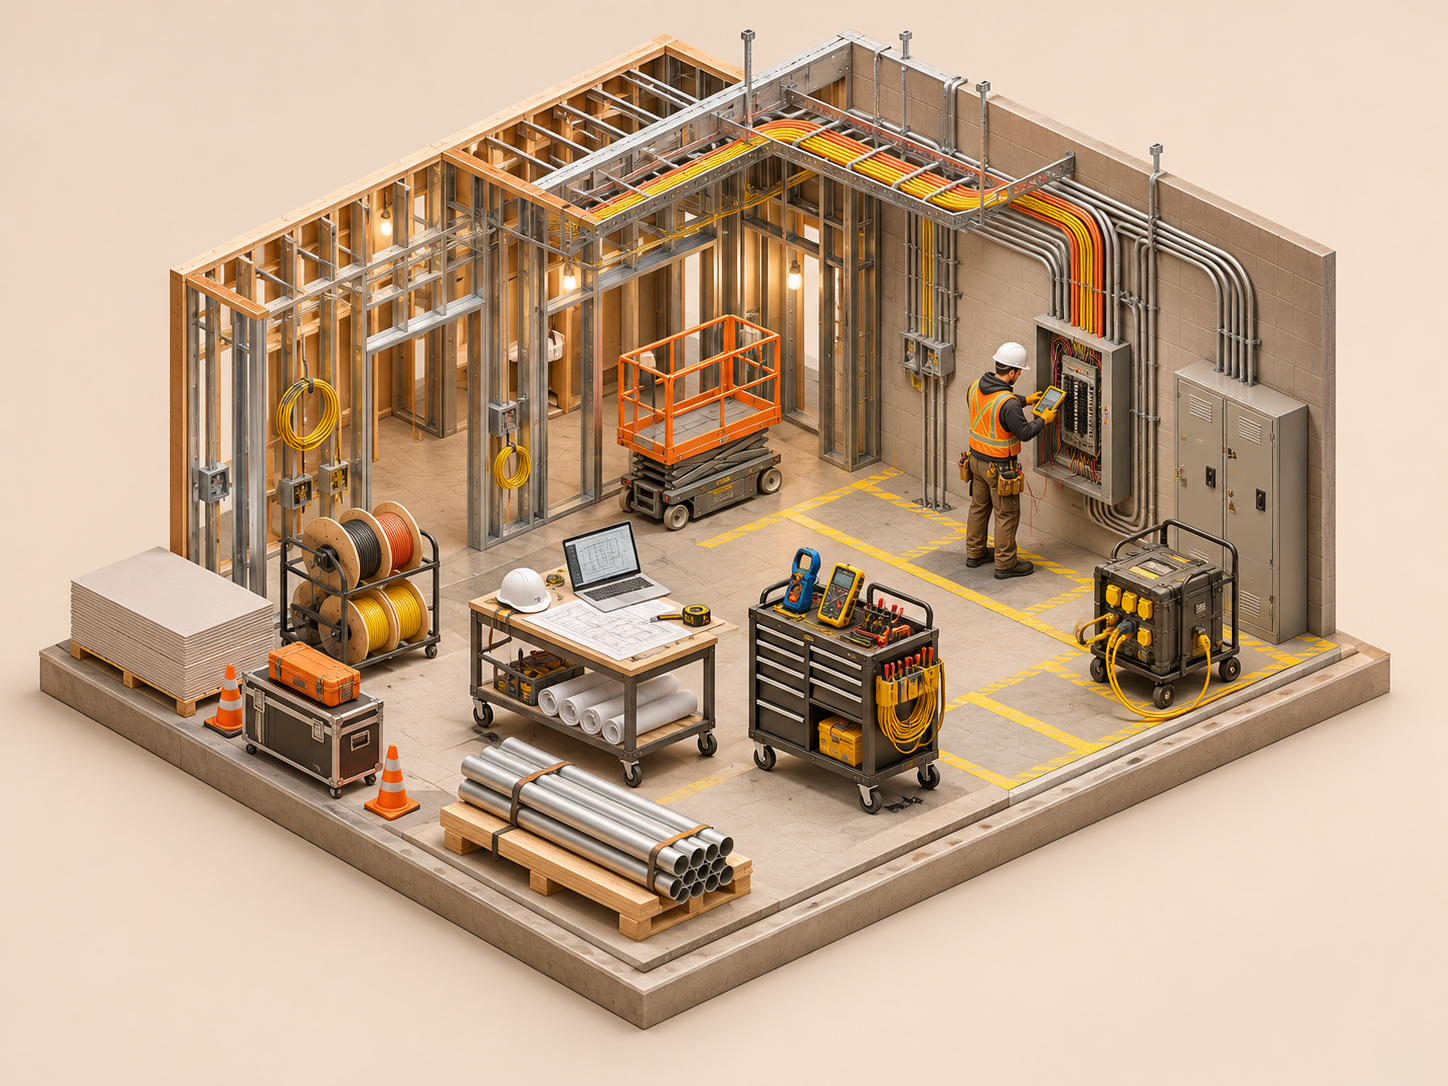
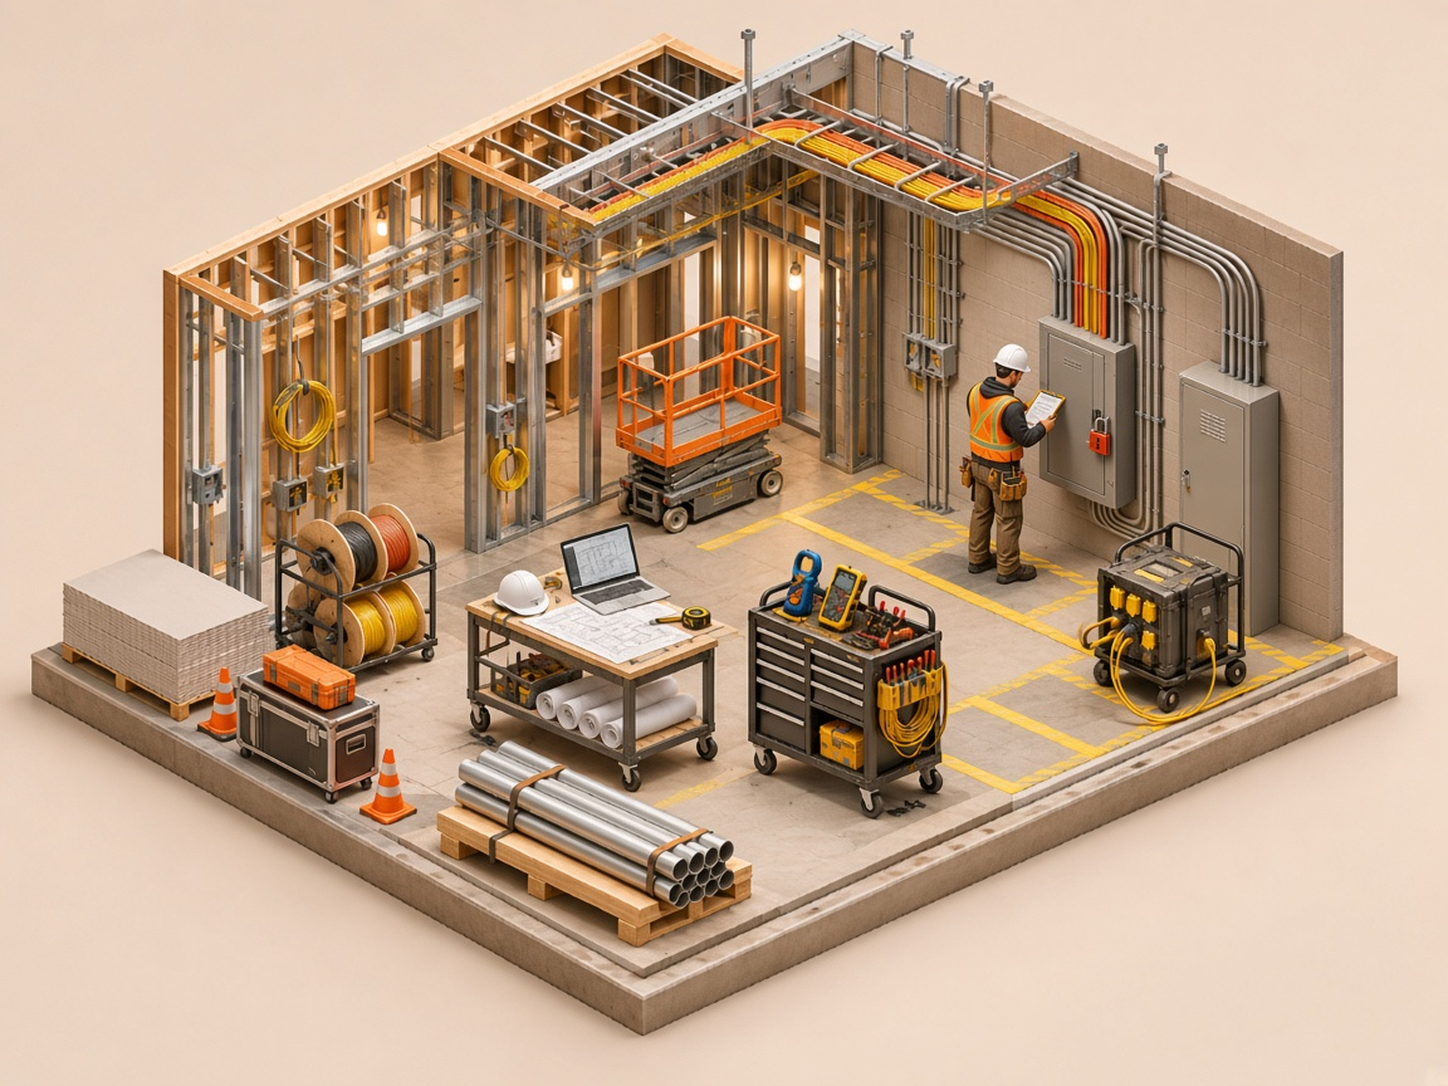
fix(batch-a): replace unsafe excavation and electrical preview art
Swap the excavation hero for a trench-box scene with the crew behind
fencing and no Toronto skyline. Show the electrical hero and explorer
as locked-out, de-energized work, and label the tow wheel-lift without
calling the parked flatbed a loaded unit.

Changed region(s): [[0.0, 0.0304, 0.9634, 0.9724]]

diff --git a/src/data/coverage-explorer/batch-a-scenes.ts b/src/data/coverage-explorer/batch-a-scenes.ts
@@ -61,7 +61,7 @@ export const BATCH_A_EXPLORER_SCENES: Record<string, BatchAExplorerScene> = {
     src: explorerSrc("electrical-contractors-insurance-explorer.png"),
     visualFamily: "construction",
     zones: [
-      zone("panel-work", "63,28 79,27 80,51 64,52", "glow", "Electrician at panel"),
+      zone("panel-work", "56,26 80,25 81,56 56,56", "glow", "Locked panel"),
       zone("conduit-runs", "48,8 86,10 84,27 50,24", "outline", "Conduit and cable runs"),
       zone("test-tools", "51,47 71,46 73,70 52,71", "glow", "Meters and tool cart"),
       zone("cable-reels", "17,41 31,40 32,63 17,64", "fill", "Cable reels"),
@@ -75,6 +75,8 @@ export const BATCH_A_EXPLORER_SCENES: Record<string, BatchAExplorerScene> = {
       "design-assist-eo": ["drawings"],
       "certificates-additional-insured": [],
     },
+    sceneNote:
+      "The panel door is closed and locked. The scene does not show energized testing or live work.",
   },
   "plumbing-hvac-insurance": {
     src: explorerSrc("plumbing-hvac-insurance-explorer.png"),
@@ -182,6 +184,8 @@ export const BATCH_A_EXPLORER_SCENES: Record<string, BatchAExplorerScene> = {
       "on-hook-bailee": ["customer-suv"],
       "storage-lot-roadside": ["storage-lot"],
     },
+    sceneNote:
+      "The customer SUV is on the wrecker's wheel-lift, with its rear tires on the pavement. The flatbed in the fenced lot is parked and is not carrying that vehicle.",
   },
   "commercial-umbrella-insurance": {
     src: explorerSrc("commercial-umbrella-insurance-explorer.png"),

diff --git a/src/data/photography/placements.ts b/src/data/photography/placements.ts
@@ -621,7 +621,7 @@ export const photographyPlacements: PhotographyPlacement[] = [
     category: "commercial",
     route: "/electrical-contractors-insurance/",
     src: "/images/photography/batch-a/heroes/electrical-contractors-insurance.webp",
-    alt: "Electrician in a hard hat, safety glasses, gloves, and high-visibility vest working inside an open electrical panel",
+    alt: "Electrician in a hard hat, safety glasses, and gloves installing conduit beside a closed panel, with the disconnect locked out",
     confidence: "HIGH",
     objectPosition: "62% 42%",
   },
@@ -639,7 +639,7 @@ export const photographyPlacements: PhotographyPlacement[] = [
     category: "commercial",
     route: "/excavation-contractors-insurance/",
     src: "/images/photography/batch-a/heroes/excavation-contractors-insurance.webp",
-    alt: "Worker in a hard hat and high-visibility vest tightening a valve on a pipe in an open trench, with an excavator behind",
+    alt: "Two workers in hard hats and high-visibility vests stand behind safety fencing beside a trench box, with the excavator clear of the crew",
     confidence: "HIGH",
   },
   {
